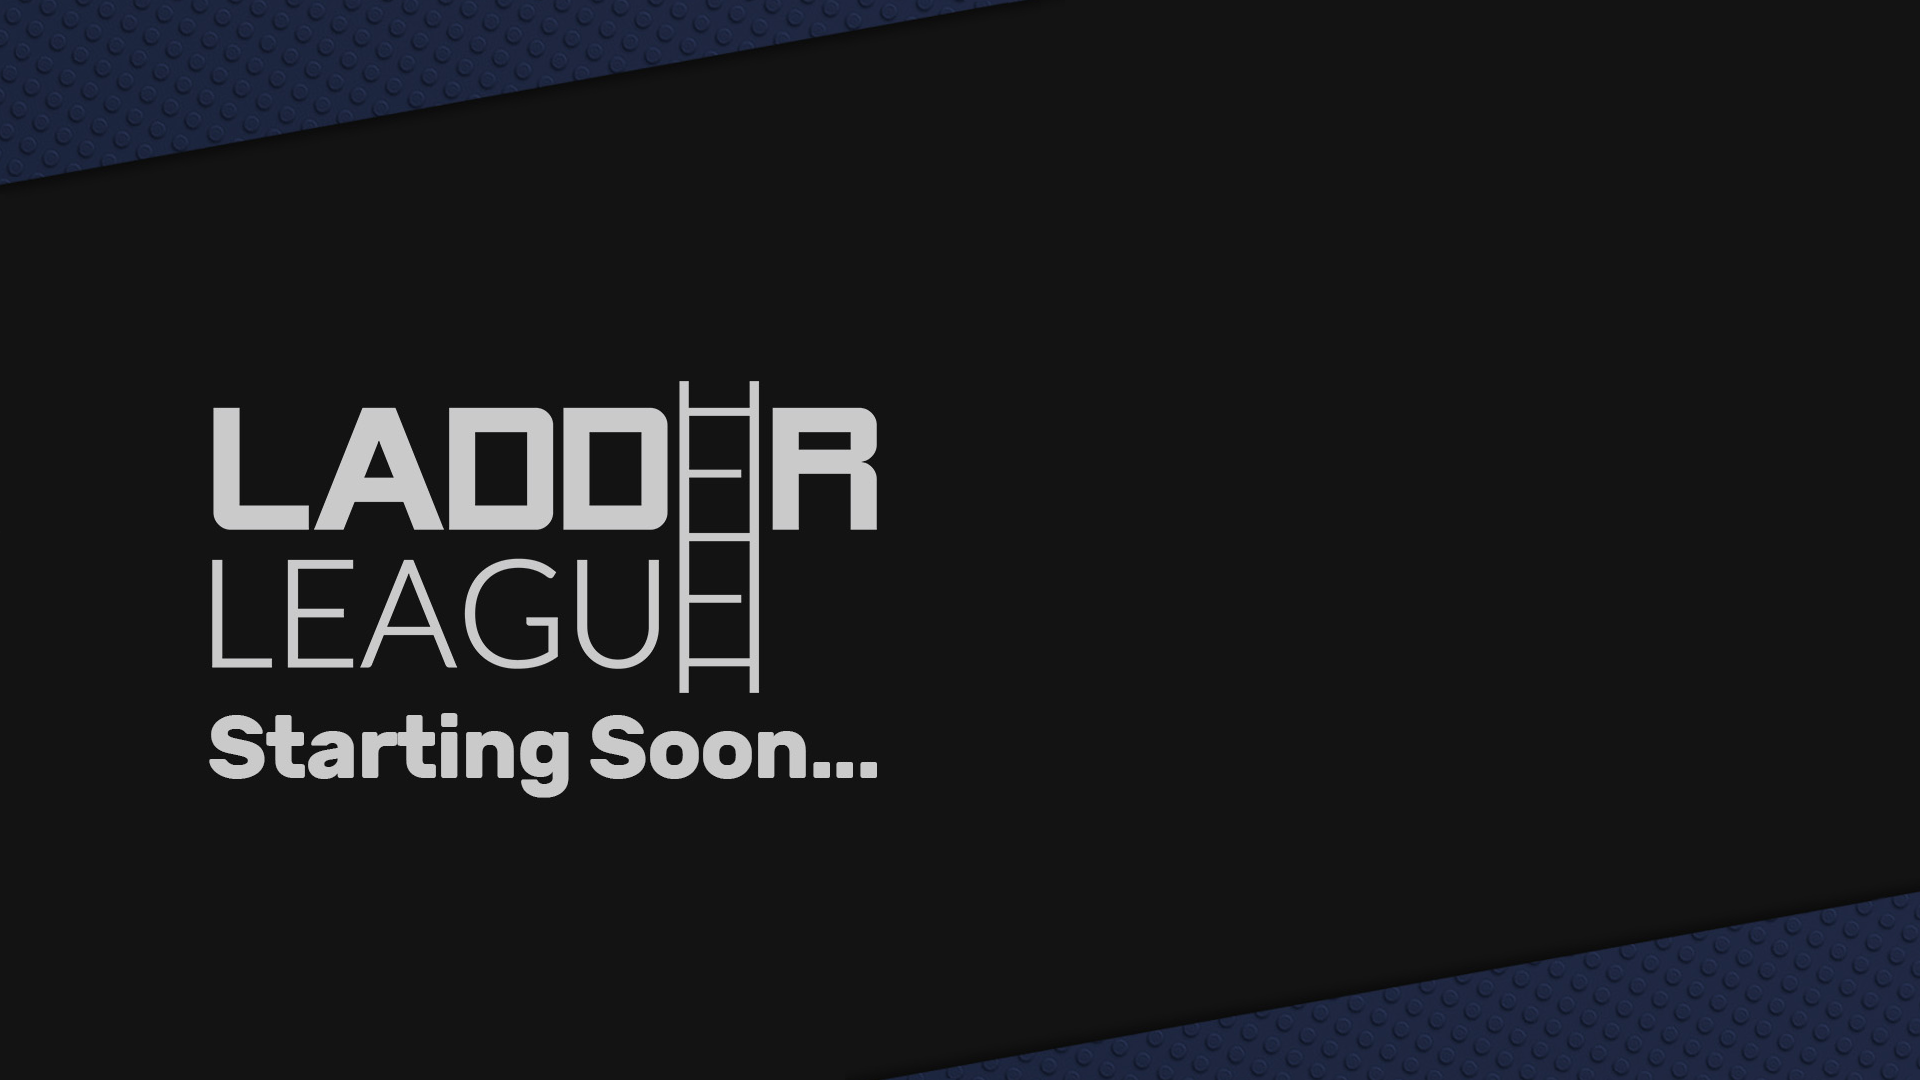
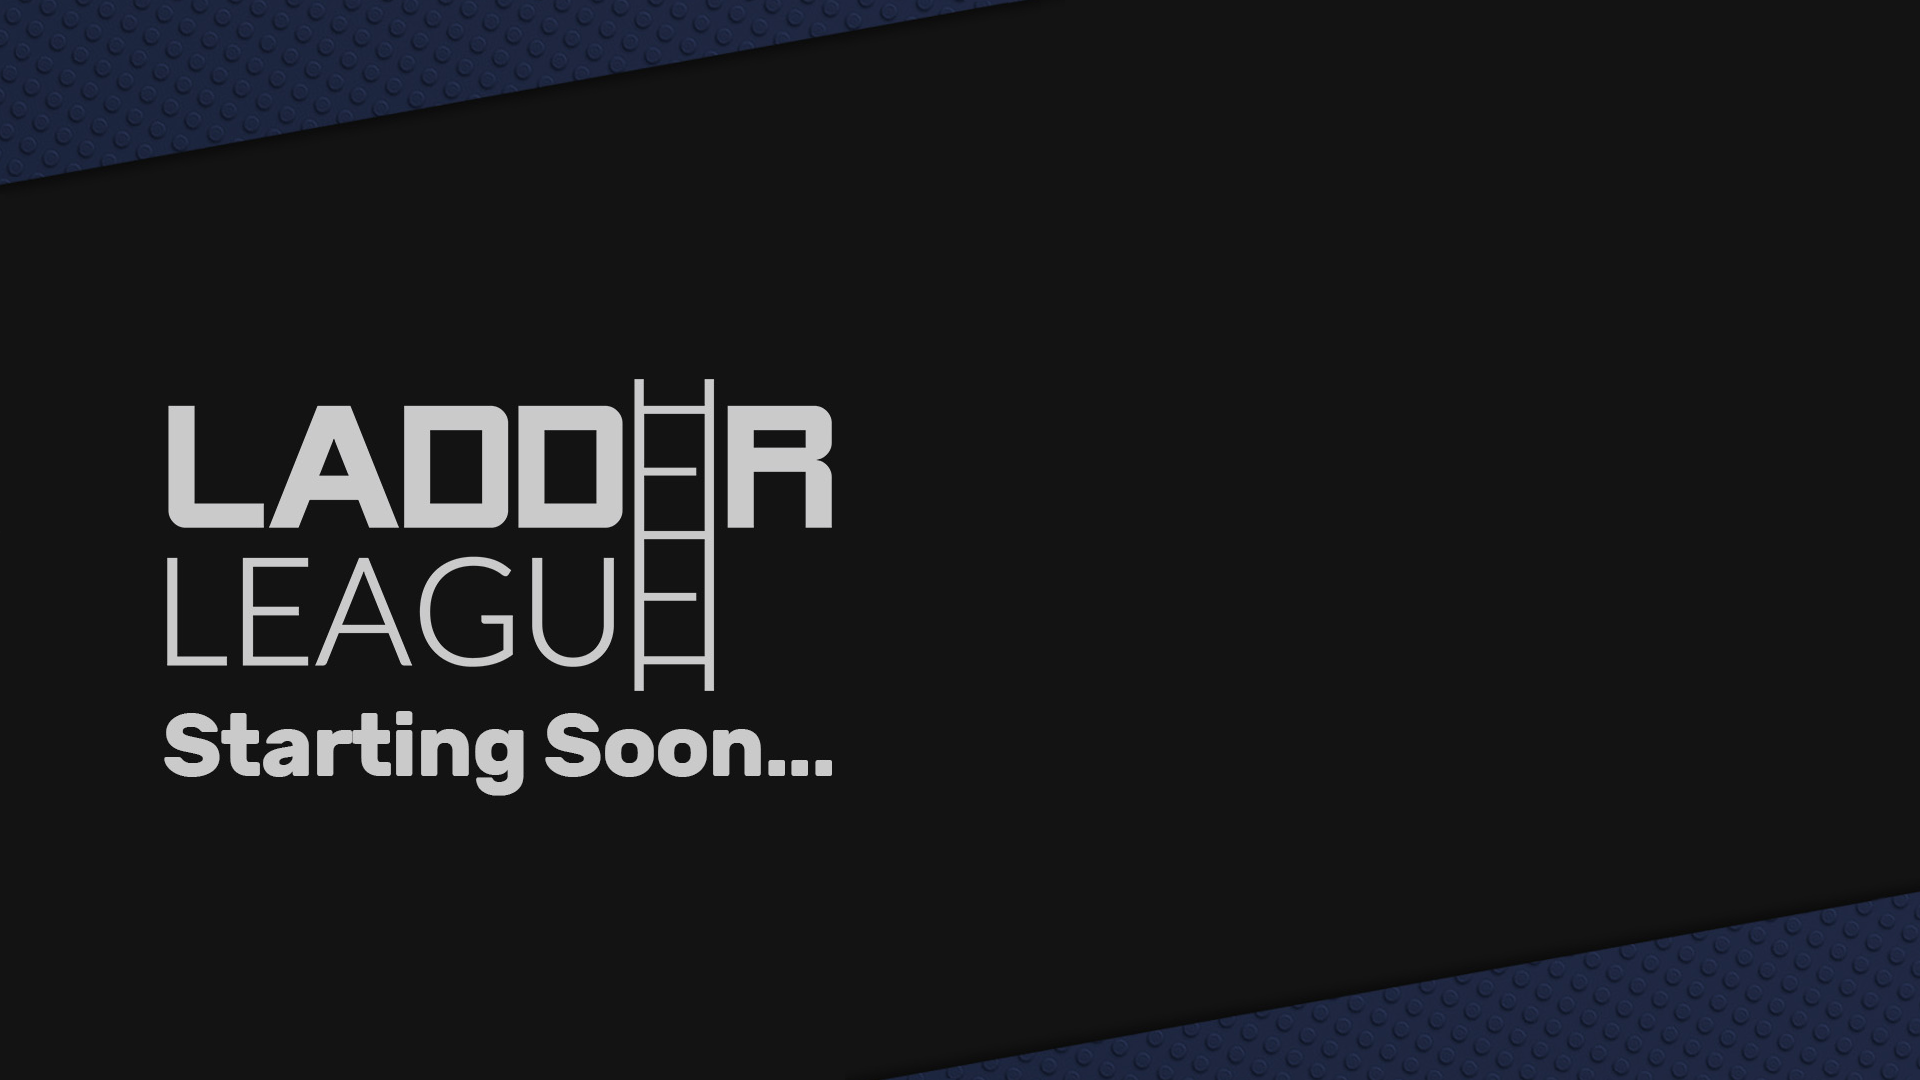
Starting again

Changed region(s): [[0.0625, 0.3361, 0.4688, 0.7333]]

diff --git a/html/ladder_league/startup.html b/html/ladder_league/startup.html
@@ -13,14 +13,14 @@
             height: 120px;
         }
         .event-players{
-            font-size: 50px;
+            font-size: 47px;
             font-weight:bold;
             color: var(--ladder-white);
             font-family: "Rubik";
             text-transform: uppercase;
         }
         .event-seed{
-            font-size: 40px;
+            font-size: 37px;
             font-weight:bold;
             color: var(--ladder-white);
             font-family: "Rubik";
@@ -34,13 +34,13 @@
         }
         .vs-box{
             text-align: center;
-            font-size: 35px;
+            font-size: 32px;
             font-weight: bold;
             color: var(--ladder-white);
             font-family: "Rubik";
         }
         .best-time{
-            font-size:25px;
+            font-size:22px;
             color: var(--ladder-white);
             font-family: "Rubik";
         }
@@ -59,7 +59,7 @@
             
     </style>
     <body style="width:1920px; height:1080px; background-image: url('LadderLeagueStartingRevised.png');">
-        <div class="info-box" style="position: absolute; left: 985px; top:5px; width: 850px; height:900px">
+        <div class="info-box" style="position: absolute; left: 980px; top:10px; width: 850px; height:900px">
             <div class="container">
                 <div class="row">
                     <div class="col-2">
